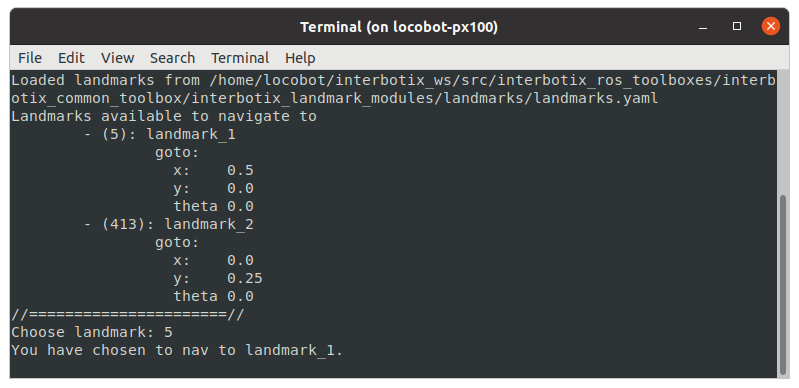
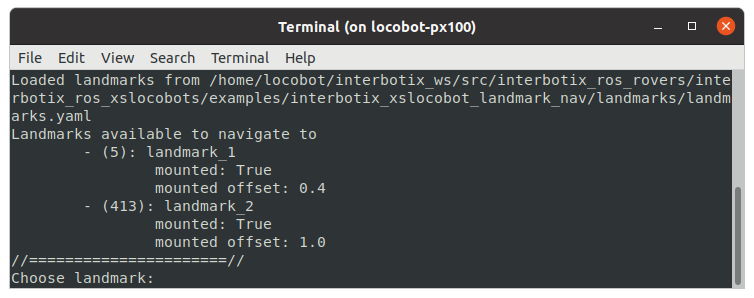
[xslocobot_landmark_nav] Update docs & launch file
Replaced outdated doc pictures. Made nav_to_landmark application start
in a new terminal.

Changed region(s): [[0.0, 0.0, 1.0, 0.9966], [0.3966, 0.7852, 0.4271, 0.8456], [0.3966, 0.604, 0.4271, 0.6644]]

diff --git a/interbotix_ros_xslocobots/examples/interbotix_xslocobot_landmark_nav/README.md b/interbotix_ros_xslocobots/examples/interbotix_xslocobot_landmark_nav/README.md
@@ -1,7 +1,7 @@
-# interbotix_xslocobot_landmark_nav (WIP)
+# interbotix_xslocobot_landmark_nav
 
 ## Overview
-This package builds on top of the *interbotix_xslocobot_nav* and *interbotix_landmark_modules*, and *interbotix_perception_modules* packages to provide a method to traverse the map towards points of interest (landmarks) marked by AprilTags.
+This package builds on top of the *interbotix_xslocobot_nav*, *interbotix_landmark_modules*, and *interbotix_perception_modules* packages to provide a method to traverse the map towards points of interest (landmarks) marked by AprilTags.
 
 ## Structure
 <!-- ![xslocobot_landmark_nav_flowchart](images/xslocobot_landmark_nav_flowchart.png) -->
